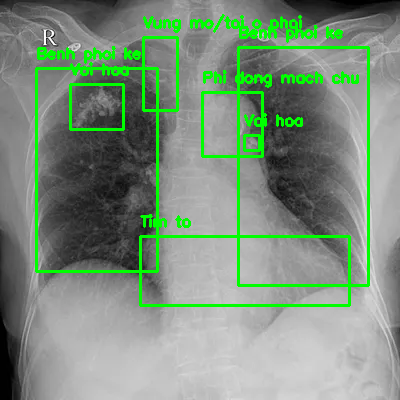
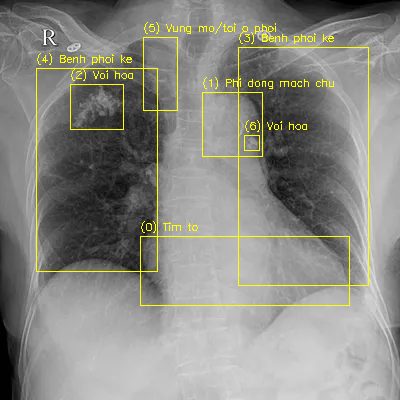
[chore] prettier text, mapping

Changed region(s): [[0.09, 0.03, 0.93, 0.78]]

diff --git a/img_process/main.py b/img_process/main.py
@@ -32,9 +32,9 @@ def rect():
     img = image.content
     image = cv2.imdecode(np.asarray(bytearray(img)), -1)
     for i in range(x):
-        cv2.rectangle(image, (int(json_data["input"]["xmin"][str(i)]), int(json_data["input"]["ymin"][str(i)])), (int(json_data["input"]["xmax"][str(i)]), int(json_data["input"]["ymax"][str(i)])), (0, 255, 0), 2)
-        label = diagnosis_dict[json_data["input"]["class"][str(i)]] + ": " + str(json_data["input"]["confidence"][str(i)])
-        cv2.putText(image,  diagnosis_dict[json_data["input"]["class"][str(i)]], (int(json_data["input"]["xmin"][str(i)]), int(json_data["input"]["ymin"][str(i)]) - 10), cv2.FONT_HERSHEY_SIMPLEX, 0.5, (0, 255, 0), 2)
+        cv2.rectangle(image, (int(json_data["input"]["xmin"][str(i)]), int(json_data["input"]["ymin"][str(i)])), (int(json_data["input"]["xmax"][str(i)]), int(json_data["input"]["ymax"][str(i)])), (0, 255, 255), 1)
+        label = "(" + str(i) + ") " + diagnosis_dict[json_data["input"]["class"][str(i)]] 
+        cv2.putText(image,  label, (int(json_data["input"]["xmin"][str(i)]), int(json_data["input"]["ymin"][str(i)]) - 6), cv2.FONT_HERSHEY_SIMPLEX, 0.35, (0, 255, 255), 1)
     output_path = f"outputs.png"
     cv2.imwrite(output_path, image)
     # For example, display the image
